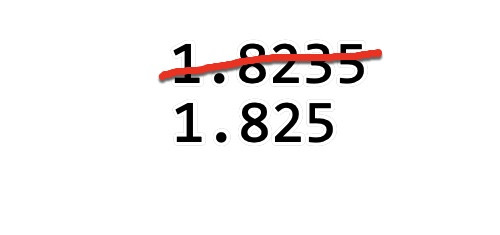
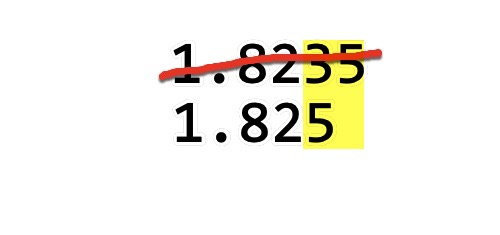
Updated the Wixey calibration article.

Changed region(s): [[0.6, 0.1489, 0.75, 0.6553]]

diff --git a/products/wixey/wr700/calibration/wixey-wr700-calibration.md b/products/wixey/wr700/calibration/wixey-wr700-calibration.md
@@ -1,28 +1,116 @@
 ---
 layout: post
-title: "How to Calibrate a Saw Fence Digital Readout"
+title: "How to Calibrate a Wixey Saw Fence Digital Readout"
 permalink: "/products/wixey/wr700/calibration/"
 back_btn_link: "/products/wixey/wr700/"
 back_btn_text: "Back to Product"
 ---
 ![](/products/wixey/wr700/calibration/2019-07-27.1.01.jpg)
 
-This is a quick and easy way to calibrate a [Wixey Saw Digital Readout]({{ site.data.products.wixey-wr700.link }}){:target="_blank"}. If you have easier ways, let me know in the comments.
+If you ever have problems trying to calibrate a [Wixey Saw Digital Readout]({{ site.data.products.wixey-wr700.link }}){:target="_blank"}, then this is your place to find answers. And if I don't answer your specific question, leave a comment below, or use the "Menu" to send me an email.
+
+> This article was updated July 29, 2019 around 7:40 PDT.
+
+![](/assets/images/icon-warning.jpg){:width="40px"}{:style="transform: translateY(.4em)"}{: .align-left} Don't forget that you should probably re-calibrate the gauge if you switch to a blade with a different thickness.
+
+{:style="clear: left"}
 
 ### NOTES:
 
-* This article talks about inches, but the concept is the same with millimeters.
+* I'll be using measurements in inches, but I include millimeters when it's relevant.
 
 * I use my fence to the right of the blade. If you use yours to the left, just switch right and left in this article.
 
 <p></p><hr class="hr-thick"><p></p>
 
+## About Imperial Decimal Places
+
+![](/products/Wixey/wr700/calibration/2019-07-27.1.18.jpg){:width="150px"}{: .align-left}
+The Wixey gauge's readout has two decimal places, or three if the value rounds to 5 thousands of an inch.
+
+{:style="clear: left"}
+
+![](/products/Wixey/wr700/calibration/2019-07-27.1.19.jpg){:width="150px"}{: .align-left}
+Compare that to my [digital caliper]({{ site.data.products.caliper-digital.link }}){:target="_blank"}, which has *three* decimal places, or *four* if the value rounds to 5 *ten*-thousands of an inch.
+
+{:style="clear: left"}
+
+Those extra "5"s at the end of the numbers can be confusing. So, here's two ways to handle them:
+
+1. Ignore the "5"s. That's a level of precision that's probably irrelevant to woodworking.
+
+    --or--
+
+1. If there *isn't* one of those "5"s, pretend there's an additional "0". That's what I'll do in the rest of this article.
+
+<p></p><hr class="hr-thick"><p></p>
+
+## "Normal" Calibration Method
+
+### Calibrate
+
+Here's the steps for calibrating the gauge, using the method Wixey recommends. I'll show an example below, with pictures.
+
+1. Raise the blade.
+
+1. Slide the fence over until it just "kisses" the blade, and lock it down. The blade should be able to spin, but just barely.
+
+1. Press and hold the `ON/OFF/CAL` button for 3 seconds. This "zeroes the gauge".
+
+1. Press the button again to store the value.
+
+### Verify
+
+I recommend verifying your calibration as follows:
+
+1. Cut a piece of scrap.
+
+1. Measure the width of the cut piece, using a [digital caliper like this]({{ site.data.products.caliper-digital.link }}){:target="_blank"}.
+
+1. Compare this number to the value on the Wixey readout. Remember the numbers are probably different resolutions, so don't forget the information in the [About Imperial Decimal Places](#about-imperial-decimal-places) section (above).
+
+### Adjust
+
+If the gauge is off by an amount that bothers you:
+
+1. Move the fence back until the gauge reads "0", and lock it down.
+
+1. Press and hold the calibration button again.
+
+1. Use the "+" or "-" buttons to add or subtract the amount the gauge is off.
+
+1. Press the button again to store the value.
+
+1. Repeat the verification process if you want.
+
+<p></p><hr class="hr-thick"><p></p>
+
+## My Calibration Method
+
+The above calibration method works great, except for one thing. When I try to do the "**Adjust**" steps (above), I always get step #3 wrong. I either add when I should subtract, or visa-versa.
+
+![](/assets/images/icon-info.jpg){:width="40px"} If you don't have this problem, then you can ignore this section.
+
+So I have two additional steps I use. After I finish the "**Calibrate**" steps (above), I intentionally force the gauge to be "off" to the right. Like this:
+
+<ol start="5">
+<li style="margin-bottom: 1em">Move the fence over to the right .05 inches (2mm), and lock it down.</li>
+
+<li>Reset the calibration to zero. (Hold the ON/OFF/CAL button for 3 seconds to zero the gauge, and then press the button again to store the value.)</li>
+</ol>
+
+After that, when I do the "**Adjust**" steps (above), step #3 is always "<span style="color:blue">**add**</span> the amount the gauge is off".
+
+<p></p><hr class="hr-thick"><p></p>
+
+## Step-By-Step Calibration With Pictures
+
 ### 1) Calibrate to Blade Position
 
 ![](/products/wixey/wr700/calibration/2019-07-27.1.02.jpg){: .align-left}
-<span style="color:blue; font-size: 1.125em;">**1.1)**</span> Raise your blade up some, slide your fence against the blade, and lock it down.
+<span style="color:blue; font-size: 1.125em;">**1.1)**</span> Raise your blade up some, and slide the fence over until it just "kisses" the blade, then lock it down.
 
-Get the fence nice and snug with the blade. You're not going to run the saw until we're done, so if the blade can't spin right now, that's OK.
+The blade should be able to spin, but just barely.
 
 {:style="clear: left"}
 
@@ -40,12 +128,12 @@ The readout resets to zero.
 
 <p></p><hr class="hr-thick"><p></p>
 
-### 2) Offset by 0.05
+### 2) Offset by 0.05" (2mm).
+
+See [My Calibration Method](#my-calibration-method), above.
 
 ![](/products/wixey/wr700/calibration/2019-07-27.1.05.jpg){: .align-left}
-<span style="color:blue; font-size: 1.125em;">**2.1)**</span> Slide the fence away from the blade, about 5 hundredths of an inch or so.
-
-You can do more if you want to, the *exact* amount doesn’t really matter.
+<span style="color:blue; font-size: 1.125em;">**2.1)**</span> Slide the fence away from the blade .05" (2mm).
 
 {:style="clear: left"}
 
@@ -68,7 +156,7 @@ This is about 1.9 inches.
 {:style="clear: left"}
 
 ![](/products/wixey/wr700/calibration/2019-07-27.1.08.jpg){: .align-left}
-<span style="color:blue; font-size: 1.125em;">**3.2)**</span> Using the Wixey gauge, set the fence to about 0.1" shy of the width of the scrap piece.
+<span style="color:blue; font-size: 1.125em;">**3.2)**</span> Using the Wixey gauge, set the fence to about .10" (4mm) shy of the width of the scrap piece.
 
 <span style="color:blue; font-size: 1.125em;">**3.3)**</span> And cut the piece.
 
@@ -135,8 +223,6 @@ And make the cut.
 <span style="color:blue; font-size: 1.125em;">**6.2)**</span> Measure the width of the piece and compare the values.
 
 Mine comes out to 1.748, which is 2 thousands of an inch difference, and that's within the margin of error.
-
-If it was any greater, I'd probably adjust it again, but this is fine.
 
 {:style="clear: left"}
 

diff --git a/products/wixey/wr700/wixey-wr700.md b/products/wixey/wr700/wixey-wr700.md
@@ -2,6 +2,7 @@
 layout: post
 title: "Wixey Saw Fence Digital Readout"
 permalink: "/products/wixey/wr700/"
+redirect_from: "/wixey/"
 back_btn_link: "/products/"
 back_btn_text: "Back to Products"
 ---
